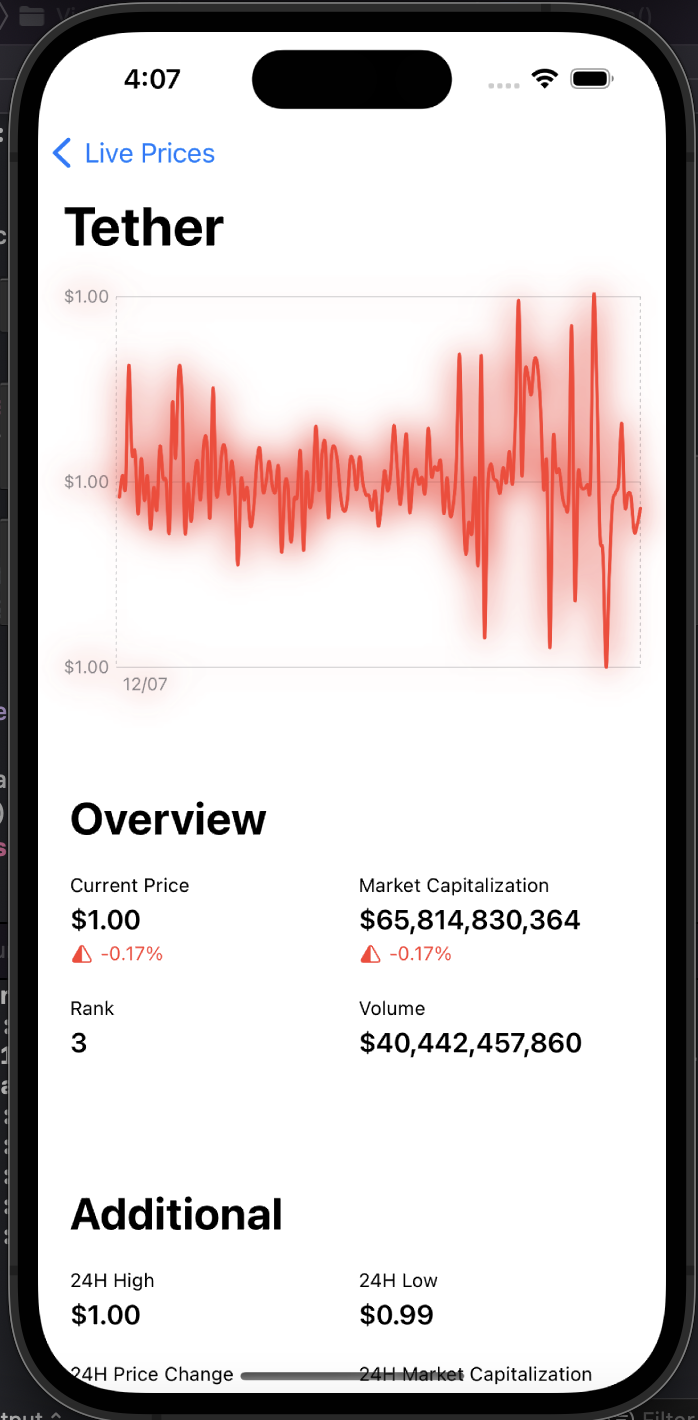
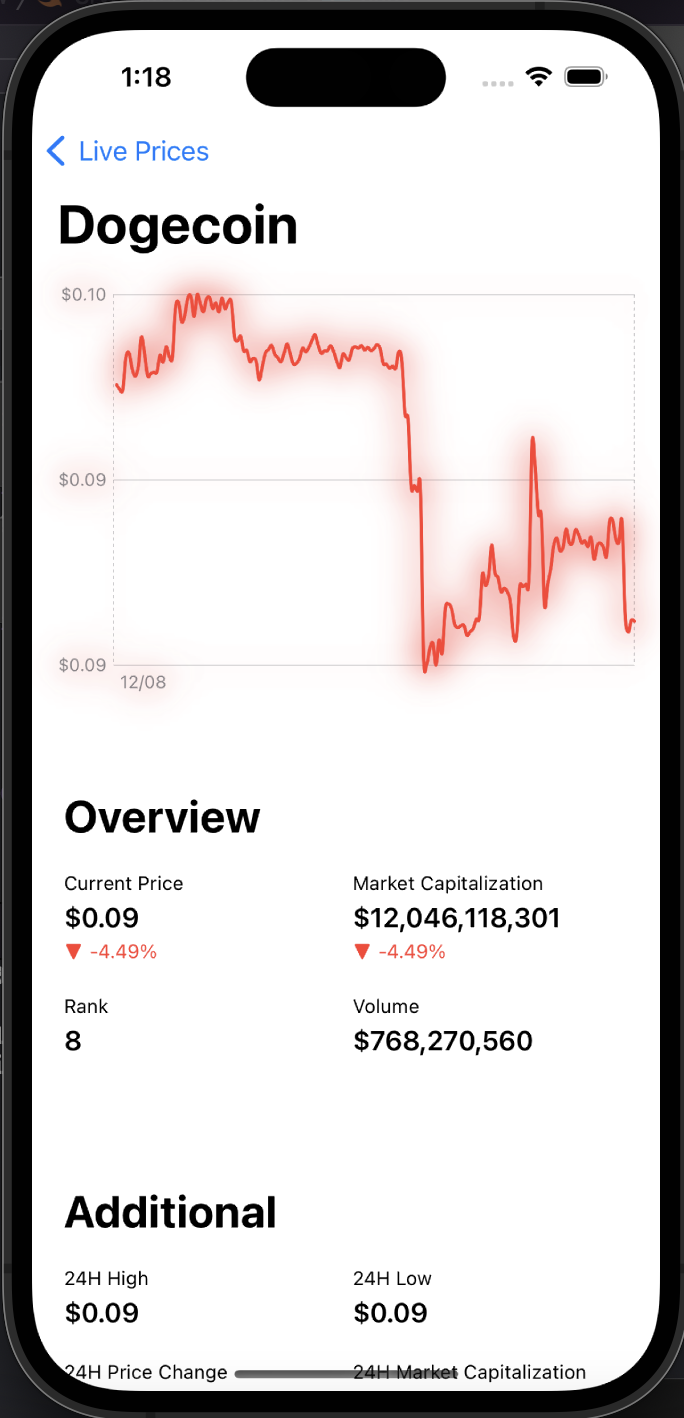
Update UI

diff --git a/CryptoCurrency/Core/Detail/View/CryptoItemView.swift b/CryptoCurrency/Core/Detail/View/CryptoItemView.swift
@@ -20,14 +20,14 @@ struct CryptoItemView: View {
             if let percentageChange = model.percentageChange {
                 HStack(spacing: 4) {
                     if percentageChange > 0 {
-                        Image(systemName: "triangle.righthalf.filled")
+                        Image(systemName: "arrowtriangle.up.fill")
                             .font(.caption)
                             .foregroundColor(.green)
                         Text("+"+percentageChange.toPercentage())
                             .font(.caption)
                             .foregroundColor(.green)
                     } else {
-                        Image(systemName: "triangle.lefthalf.filled")
+                        Image(systemName: "arrowtriangle.down.fill")
                             .font(.caption)
                             .foregroundColor(.red)
                         Text(percentageChange.toPercentage())
